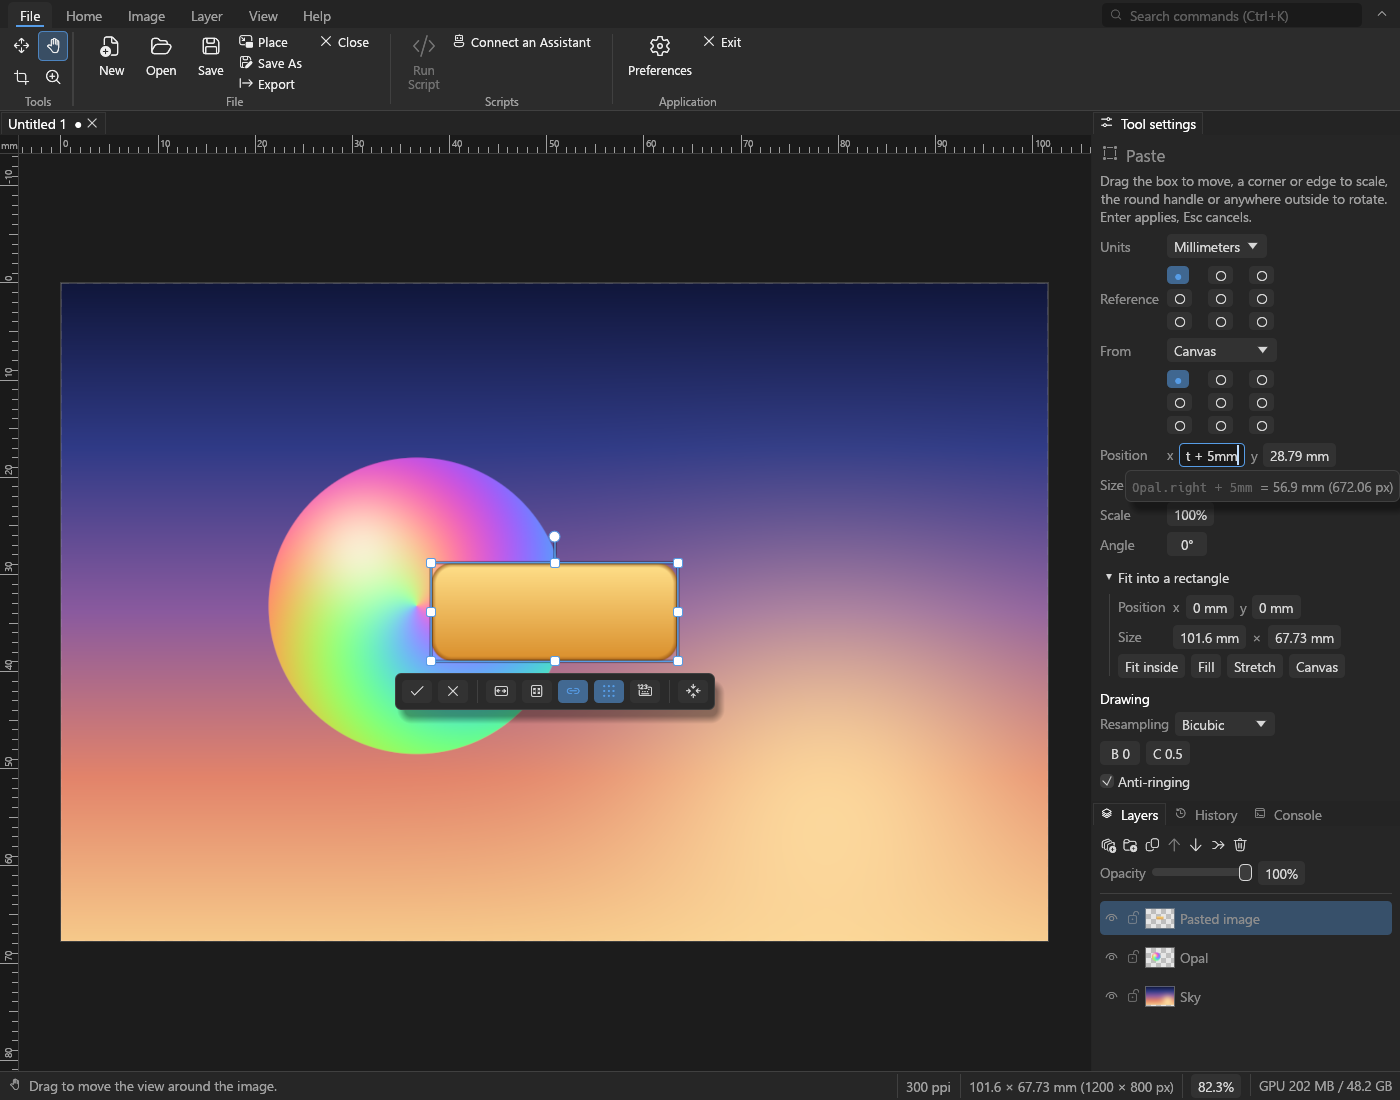
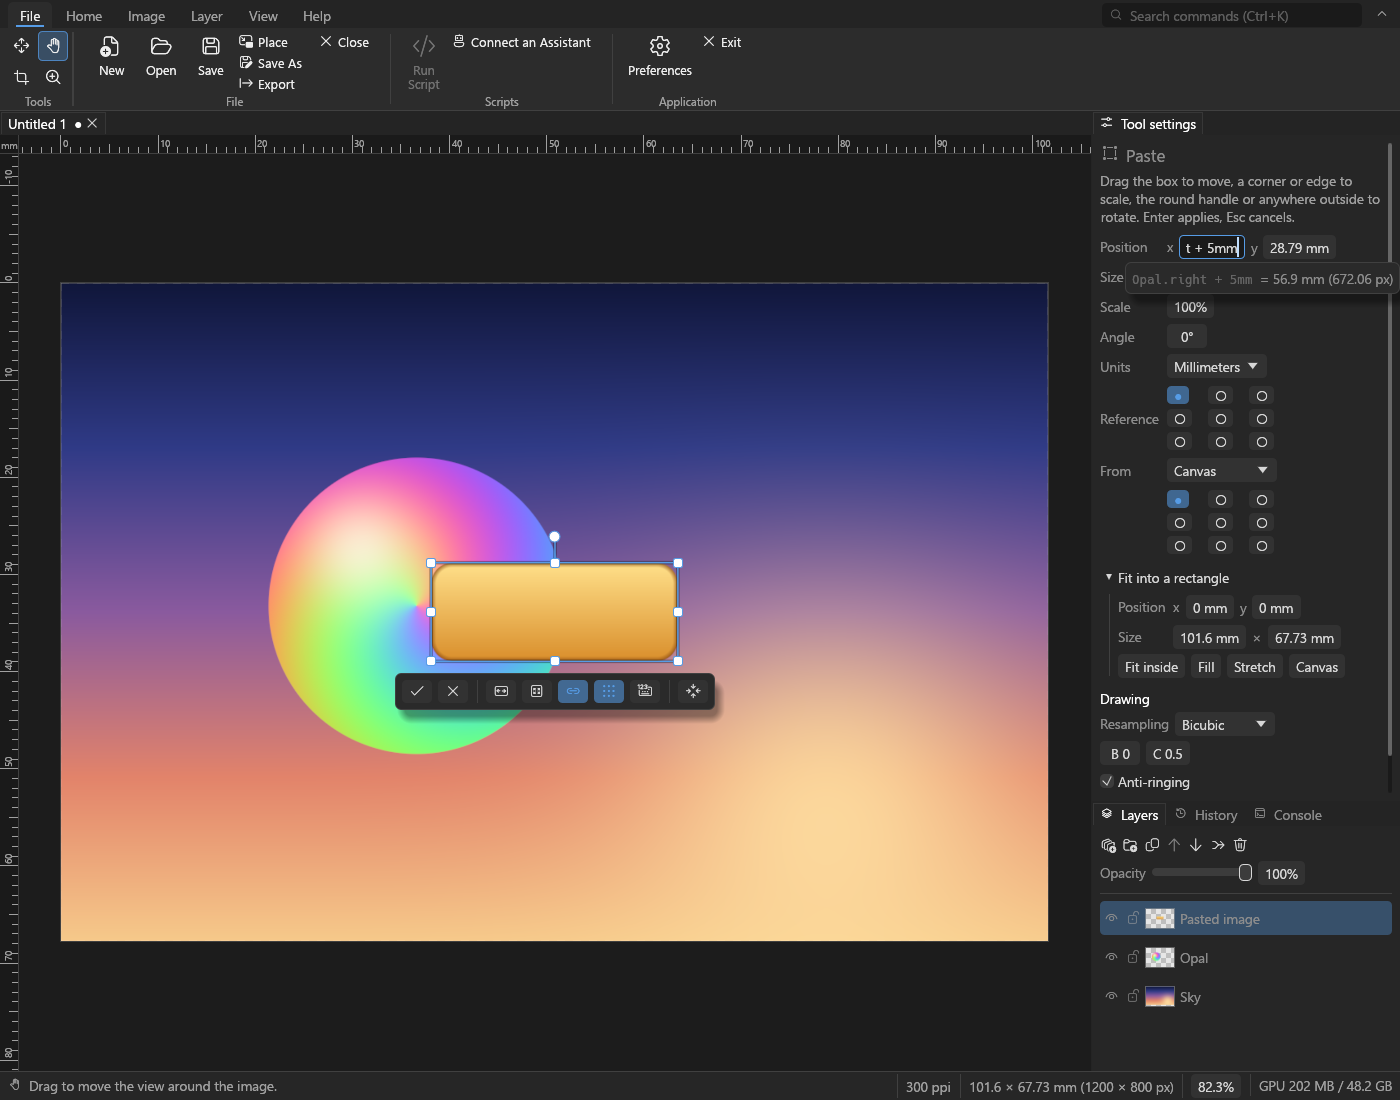
Box fields: the numbers first, how they are measured after them
A box's fields began with the unit, the grid of its points and what the
position counts from, about 160 px of them, so that in the starting layout,
where the tool settings are short, the position and size were out of sight
below them. Now the position, size, scale and angle come first and the unit,
the reference point and the From row after them. A unit, point or origin
chosen below the numbers shows them measured so in the same frame: the
fields ask egui for another pass, the caller having measured them before.

The UI tests check that the starting layout shows the position and size
fields above the layers, that a unit chosen shows x in it in the same frame,
and that the From grid stays between its menu and what follows the fields
(each proven by putting the old code back). The README screenshot is made
again in the new order.

Changed region(s): [[0.7679, 0.1236, 1.0, 0.68]]

diff --git a/crates/opal-app/src/box_fields.rs b/crates/opal-app/src/box_fields.rs
@@ -136,12 +136,12 @@ pub struct Fields<'a> {
 }
 
 /// Fields for the box `p` (its position that of its point `POINTS[m.reference]`, from
-/// `m.origin`), in `m.unit` at `ppi`, with a menu of the units, a grid of the box's points,
-/// and what the position counts from (the canvas or a layer of `doc`, the image as it was
-/// before the box opened, and its point), as a two-column grid. Returns whether the user
-/// changed a number (choosing another point, or another origin, changes none: the caller
-/// shows the box measured so next); what was entered in the fields for the position, size
-/// and angle goes into `entered`.
+/// `m.origin`), in `m.unit` at `ppi`, and after them a menu of the units, a grid of the
+/// box's points, and what the position counts from (the canvas or a layer of `doc`, the
+/// image as it was before the box opened, and its point), as a two-column grid. Returns
+/// whether the user changed a number (choosing another unit, point or origin changes none:
+/// the caller shows the box measured so, in the pass this asks egui for at once); what was
+/// entered in the fields for the position, size and angle goes into `entered`.
 pub fn fields(
     ui: &mut egui::Ui,
     p: &mut Params,
@@ -162,35 +162,10 @@ pub fn fields(
         Base::Layer(_) => format!("“{name}”"),
     };
     let from = format!("{} of {of}", POINTS[m.origin.point].1.to_lowercase());
+    let measured = (m.unit, m.reference, m.origin);
     egui::Grid::new(("box-numbers", how.salt)).num_columns(2).spacing([8.0, 6.0]).show(ui, |ui| {
-        ui.label("Units");
-        lengths::unit_menu(ui, &mut m.unit, &format!("{}-unit", how.salt));
-        ui.end_row();
-        ui.label("Reference").on_hover_text(
-            "Which point of the box the position gives, and what a size or angle typed scales and turns it about.",
-        );
-        reference_grid(ui, &mut m.reference, None, how.salt);
-        ui.end_row();
-        ui.label("From").on_hover_text(
-            "What the position counts from: a point of the canvas, or of what a layer holds (its bounds).",
-        );
-        // The menu beside its label, the grid of its points in a row of its own below (in
-        // one row, the grid would stand taller than the label's row).
-        egui::ComboBox::from_id_salt(("box-from", how.salt))
-            .selected_text(name.as_str())
-            .width(110.0)
-            .show_ui(ui, |ui| {
-                // Listed only while the menu is open: a walk of every layer's bounds.
-                for (b, name) in bases(doc) {
-                    ui.selectable_value(&mut m.origin.base, b, name);
-                }
-            })
-            .response
-            .widget_info(|| egui::WidgetInfo::labeled(egui::Role::ComboBox, true, "From"));
-        ui.end_row();
-        ui.label("");
-        reference_grid(ui, &mut m.origin.point, Some("From"), &format!("{}-from", how.salt));
-        ui.end_row();
+        // The numbers first, how they are measured after them: in a short panel, what shows
+        // without scrolling is what is typed in most.
         let scope = Scope { doc: Some(doc), ppi, unit: m.unit, origin: counted, own: Some(own(&before)) };
         let mut field = |px: &mut f64, range, number: BoxNumber, ui: &mut egui::Ui| {
             let f = lengths::length_field(px, scope, range, how.px_decimals).remember(box_entries(number));
@@ -240,7 +215,40 @@ pub fn fields(
         r.on_hover_text(format!("Clockwise, about the box's {point}."));
         entered.extend(text.map(|t| (BoxNumber::Angle, t)));
         ui.end_row();
+        ui.label("Units");
+        lengths::unit_menu(ui, &mut m.unit, &format!("{}-unit", how.salt));
+        ui.end_row();
+        ui.label("Reference").on_hover_text(
+            "Which point of the box the position gives, and what a size or angle typed scales and turns it about.",
+        );
+        reference_grid(ui, &mut m.reference, None, how.salt);
+        ui.end_row();
+        ui.label("From").on_hover_text(
+            "What the position counts from: a point of the canvas, or of what a layer holds (its bounds).",
+        );
+        // The menu beside its label, the grid of its points in a row of its own below (in
+        // one row, the grid would stand taller than the label's row).
+        egui::ComboBox::from_id_salt(("box-from", how.salt))
+            .selected_text(name.as_str())
+            .width(110.0)
+            .show_ui(ui, |ui| {
+                // Listed only while the menu is open: a walk of every layer's bounds.
+                for (b, name) in bases(doc) {
+                    ui.selectable_value(&mut m.origin.base, b, name);
+                }
+            })
+            .response
+            .widget_info(|| egui::WidgetInfo::labeled(egui::Role::ComboBox, true, "From"));
+        ui.end_row();
+        ui.label("");
+        reference_grid(ui, &mut m.origin.point, Some("From"), &format!("{}-from", how.salt));
+        ui.end_row();
     });
+    // The numbers above were shown measured as before: shown again at once, measured so now
+    // (by the caller, which measures them).
+    if (m.unit, m.reference, m.origin) != measured {
+        ui.ctx().request_discard("a box's numbers are measured otherwise");
+    }
     *p != before
 }
 

diff --git a/crates/opal-app/src/ui_tests.rs b/crates/opal-app/src/ui_tests.rs
@@ -195,36 +195,75 @@ fn a_panel_cut_short_shows_its_scroll_bar() {
     assert!(bar > 0, "no scroll bar shows right of the tool settings");
 }
 
+/// In the starting layout, the tool settings show a box's position and size without scrolling
+/// (they are short there, above the layers).
+#[test]
+fn the_tool_settings_show_a_box_s_numbers_first() {
+    use egui_kittest::kittest::by;
+    let _gpu = gpu_lock();
+    let mut h = harness();
+    pasting(&mut h);
+    h.run();
+    let p = h.state().state().active().unwrap().transform.as_ref().unwrap().params();
+    let layers = h.get(on_side(by().label("Opacity").role(egui::accesskit::Role::Label), false)).rect();
+    for (what, v) in [("x", p.x), ("y", p.y), ("width", p.width), ("height", p.height)] {
+        let field = h.get(field_showing(v, 1e-6, false)).rect();
+        assert!(
+            field.bottom() < layers.top(),
+            "the {what} field is out of sight, below the layers: {field:?} {layers:?}"
+        );
+    }
+}
+
+/// A unit chosen in the menu below a box's numbers shows them in it in the same frame.
+#[test]
+fn a_unit_chosen_below_a_box_s_numbers_shows_them_in_it_at_once() {
+    use egui_kittest::kittest::by;
+    use opal_core::units::Unit;
+    let _gpu = gpu_lock();
+    let mut h = harness();
+    pasting(&mut h);
+    h.state_mut().state_mut().box_numbers = true;
+    h.run();
+    let x = h.state().state().active().unwrap().transform.as_ref().unwrap().params().x;
+    h.get(on_side(by().label("Units").role(egui::accesskit::Role::ComboBox), true)).click();
+    h.run();
+    h.get_by_label(Unit::In.name()).click();
+    h.step();
+    let shown = Unit::In.from_px(x, 100.0);
+    assert!(
+        h.query(box_field(shown, 1e-6)).is_some(),
+        "x is not shown in inches ({shown}) in the frame they were chosen"
+    );
+}
+
 #[test]
 fn a_box_s_field_takes_an_expression_and_says_what_it_comes_to() {
     use egui_kittest::kittest::by;
     let _gpu = gpu_lock();
     let mut h = harness();
     pasting(&mut h);
-    // Typed into the numbers by the box (the tool settings show the same, past the bottom of
-    // their panel at this window's height).
+    // Typed into the numbers by the box (the tool settings show the same).
     h.state_mut().state_mut().box_numbers = true;
     h.run();
     let params =
         |h: &Harness<'static, OpalApp>| h.state().state().active().unwrap().transform.as_ref().unwrap().params();
     let x = |h: &Harness<'static, OpalApp>| params(h).x;
     let at = x(&h);
-    // The grid of points the position counts from ends above the position's row.
-    let from = h.get(by().label("From: Bottom left").predicate(|n| n.bounding_box().is_some_and(|b| b.x0 < 1000.0)));
-    let field = h.get(box_field(at, 1e-6)).rect();
+    // The From label is level with the menu it names, and the grid of points the position
+    // counts from lies between the menu and what follows the fields.
+    let by_the_box = |b| h.get(on_side(b, true)).rect();
+    let label = by_the_box(by().label("From").role(egui::accesskit::Role::Label));
+    let menu = by_the_box(by().label("From").role(egui::accesskit::Role::ComboBox));
     assert!(
-        from.rect().bottom() <= field.top(),
-        "the From grid reaches into the row below: {:?} {field:?}",
-        from.rect()
-    );
-    // Its label is level with the menu it names.
-    let from_as = |role| {
-        h.get(by().label("From").role(role).predicate(|n| n.bounding_box().is_some_and(|b| b.x0 < 1000.0))).rect()
-    };
-    let (label, menu) = (from_as(egui::accesskit::Role::Label), from_as(egui::accesskit::Role::ComboBox));
-    assert!(
-        (label.center().y - menu.center().y).abs() < 1.0,
+        (label.center().y - menu.center().y).abs() < 3.0,
         "the From label is not beside its menu: {label:?} {menu:?}"
+    );
+    let (first, last) = (by_the_box(by().label("From: Top left")), by_the_box(by().label("From: Bottom left")));
+    let below = by_the_box(by().label("Fit into a rectangle"));
+    assert!(
+        menu.bottom() <= first.top() && last.bottom() <= below.top(),
+        "the From grid reaches into the rows beside it: {menu:?} {first:?} {last:?} {below:?}"
     );
     // A layer's edge, the box's own width, and a bare number in the field's unit (pixels):
     // shown whole, with what it comes to, below the field (which may be too narrow to show

diff --git a/design.md b/design.md
@@ -637,7 +637,11 @@ existing layers: Transform (Ctrl+T) opens it on the selected layers.
   (`box_fields`), beside the box and its toolbar (to the right, else the left, else the
   view's corner), so a paste can be put in a rectangle typed in any unit without leaving
   the canvas. The crop box has the same fields and button; the selection tools' boxes will
-  take them too. The position is that of the box's **reference point** (a 3 × 3 grid in
+  take them too. The fields give the numbers first and how they are measured after them
+  (the unit, the reference point, and what the position counts from), so that the tool
+  settings, short in the starting layout, show the numbers without scrolling; another
+  unit, point or origin chosen shows them measured so in the same frame (egui is asked
+  for another pass). The position is that of the box's **reference point** (a 3 × 3 grid in
   the fields, a preference: its top-left corner unless another is chosen), turned with
   it, from the canvas's corner; a size typed scales along the box's own sides about that
   point, and an angle turns about it, so the numbers typed stay as typed. **From**: the
